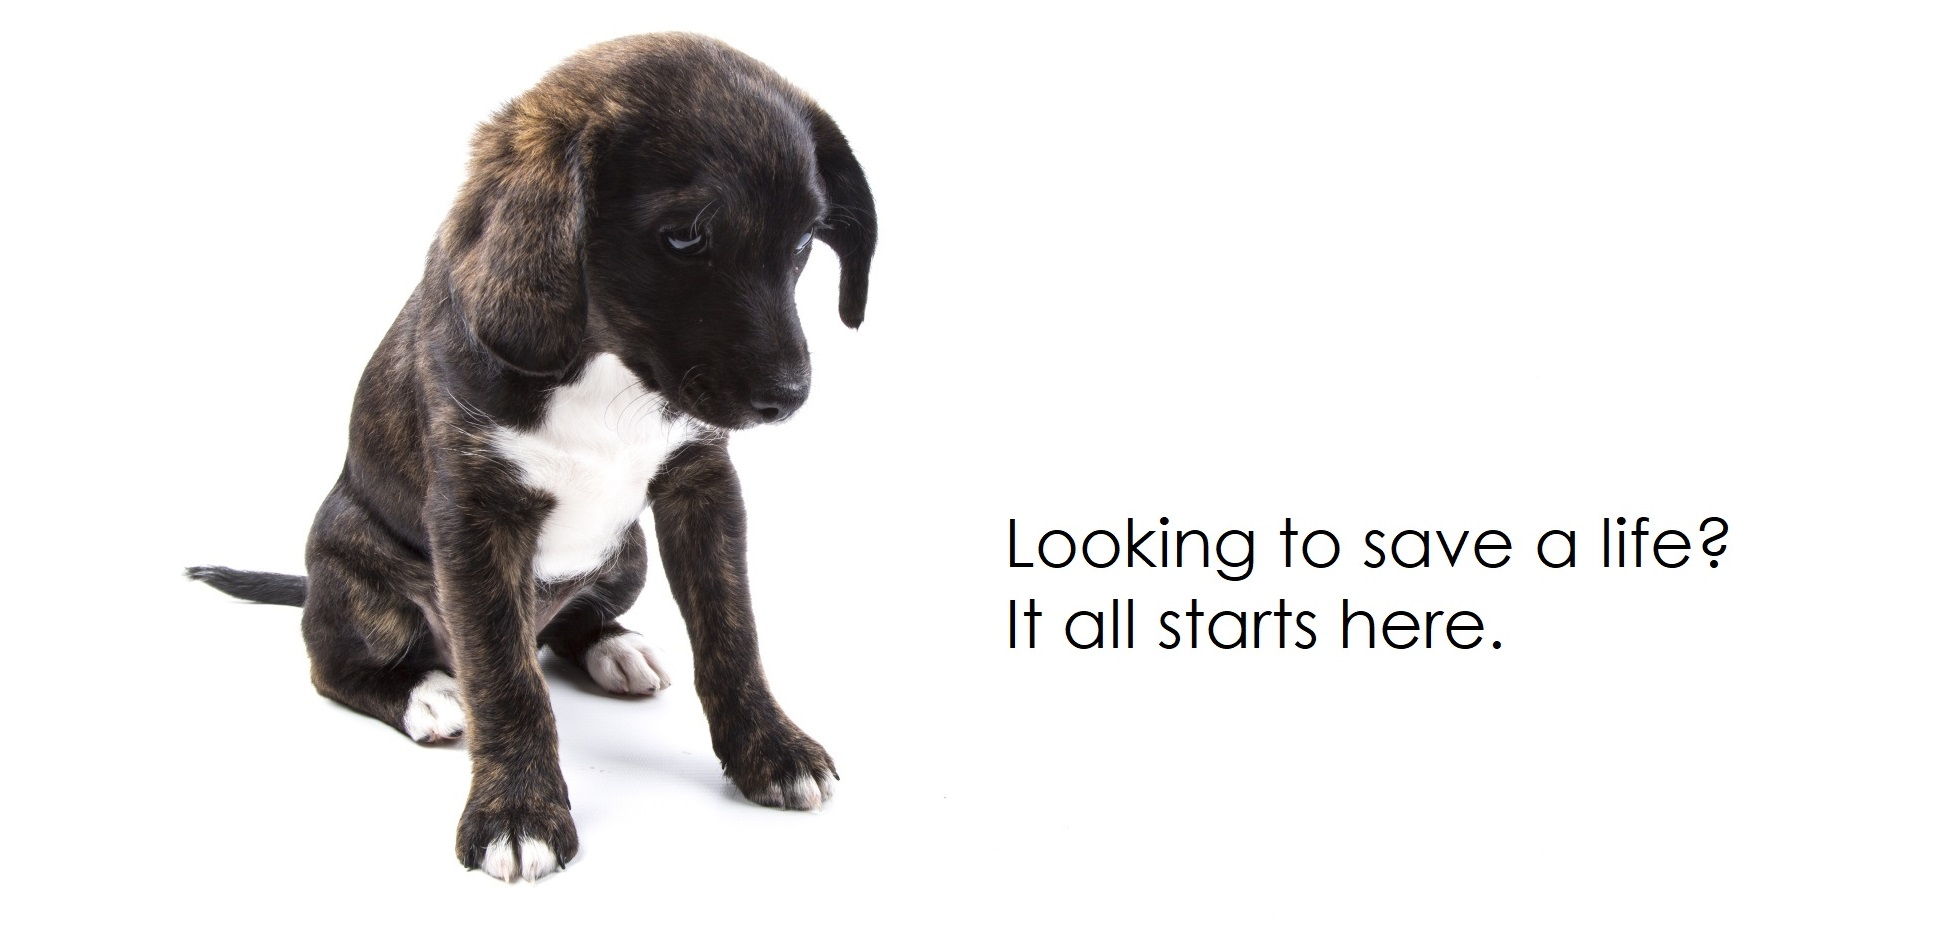
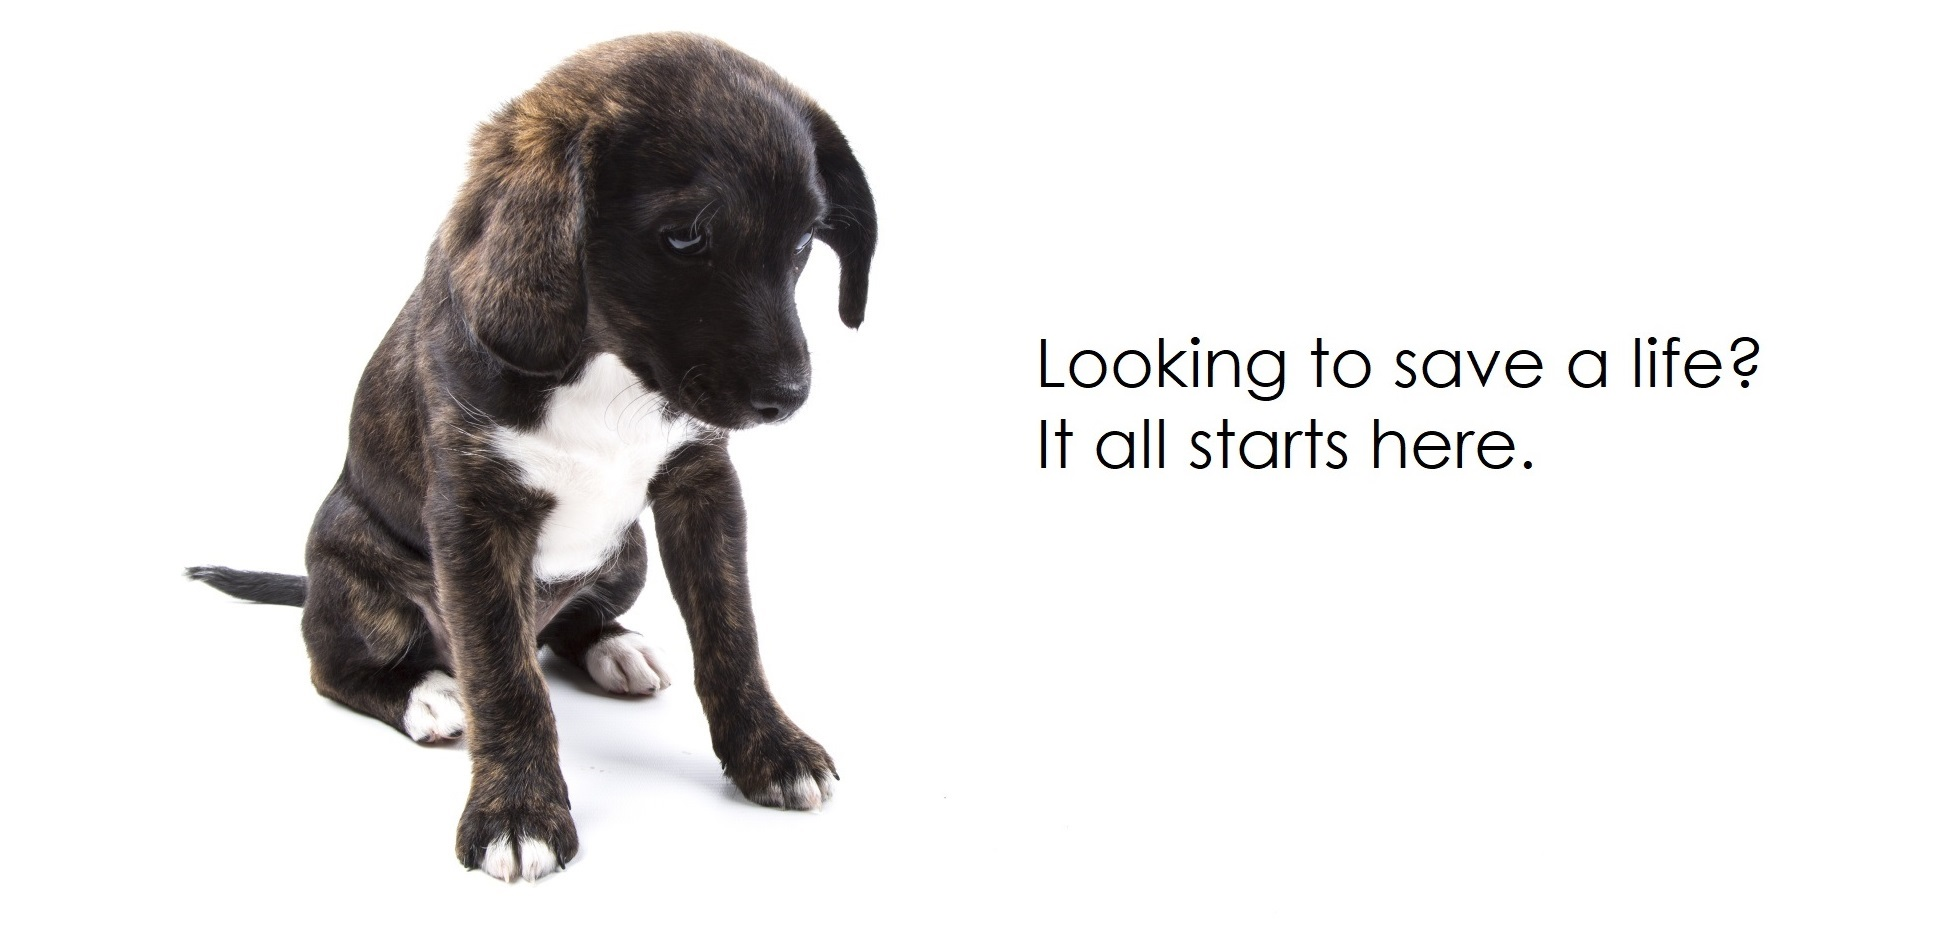
Add pictures to about page, fix error with large screens for browse Button

Changed region(s): [[0.5228, 0.343, 0.9226, 0.4989], [0.4921, 0.5613, 0.8919, 0.6237], [0.4921, 0.6548, 0.7688, 0.7172]]

diff --git a/app/assets/stylesheets/application.scss b/app/assets/stylesheets/application.scss
@@ -41,7 +41,6 @@
 
 .banner-wrap {
   display:inline-block;
-  position:relative;
 }
 
 
@@ -49,6 +48,14 @@
   width: 80%;
   margin: 0 auto;
 }
+
+// about dogs
+.aboutdog{
+  height: auto;
+  width: 15em;
+}
+
+
 
 // Navbar
 
@@ -140,7 +147,6 @@ a:hover {
   background: #6B2A7E;
   padding: 10px 20px;
   text-decoration: none;
-  bottom: 50%;
-  left: 50%;
-
+  margin-left: 50%;
+  margin-top: -65%;
 }

diff --git a/README.md b/README.md
@@ -11,7 +11,7 @@ A user can search key parameters when browsing the dogs available, including nam
 
 The rescue shelter can login as admin and see the messages that users have sent about particular dogs, as well as see which dogs have been favourited the most. Admin access is available upon request.
 
-## Rails Conventions
+## Configuration and Setup - Rails conventions
 We used Robucop as a code analysis tool. and Guard gem with live-reload for speedier refreshing
 To add Rubocop gem
 
@@ -129,6 +129,15 @@ end
 
 
 ```
+
+now run
+
+```
+$ bundle
+
+```
+
+
 The following APIs were used:
 Google maps API on the Contact page.
 
